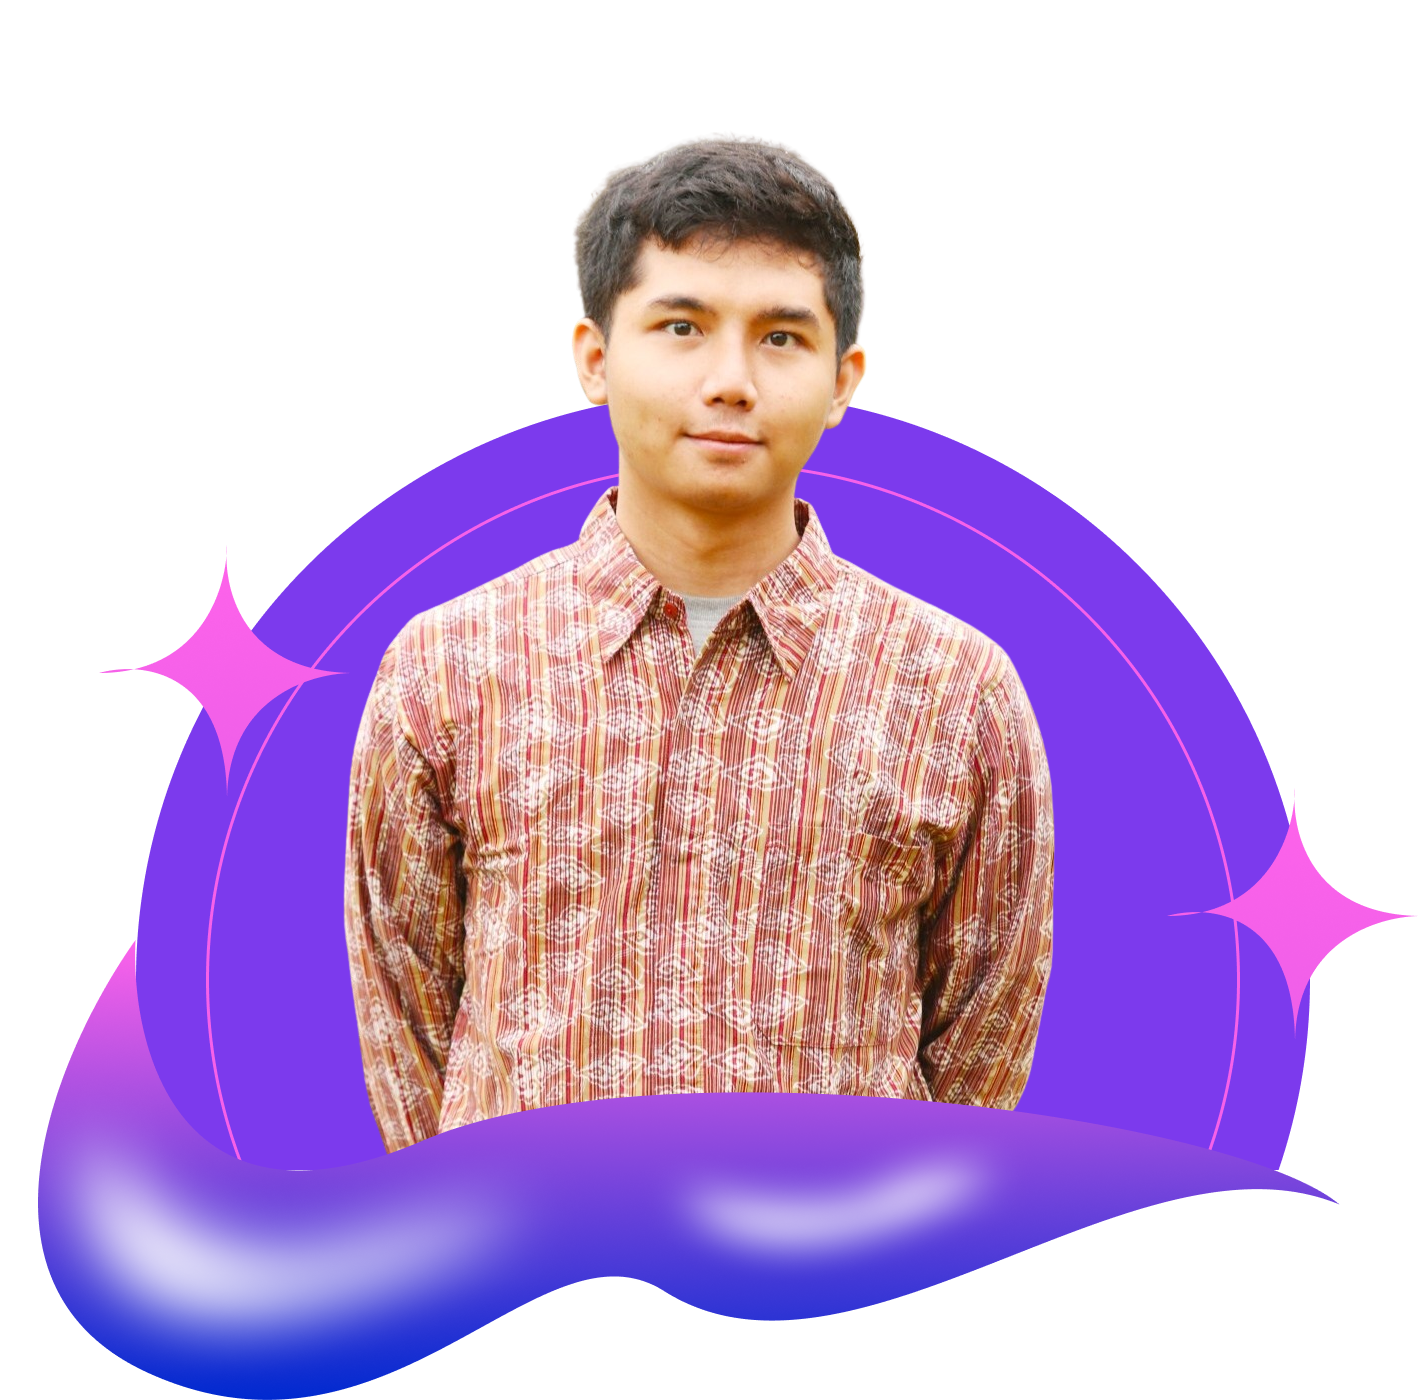
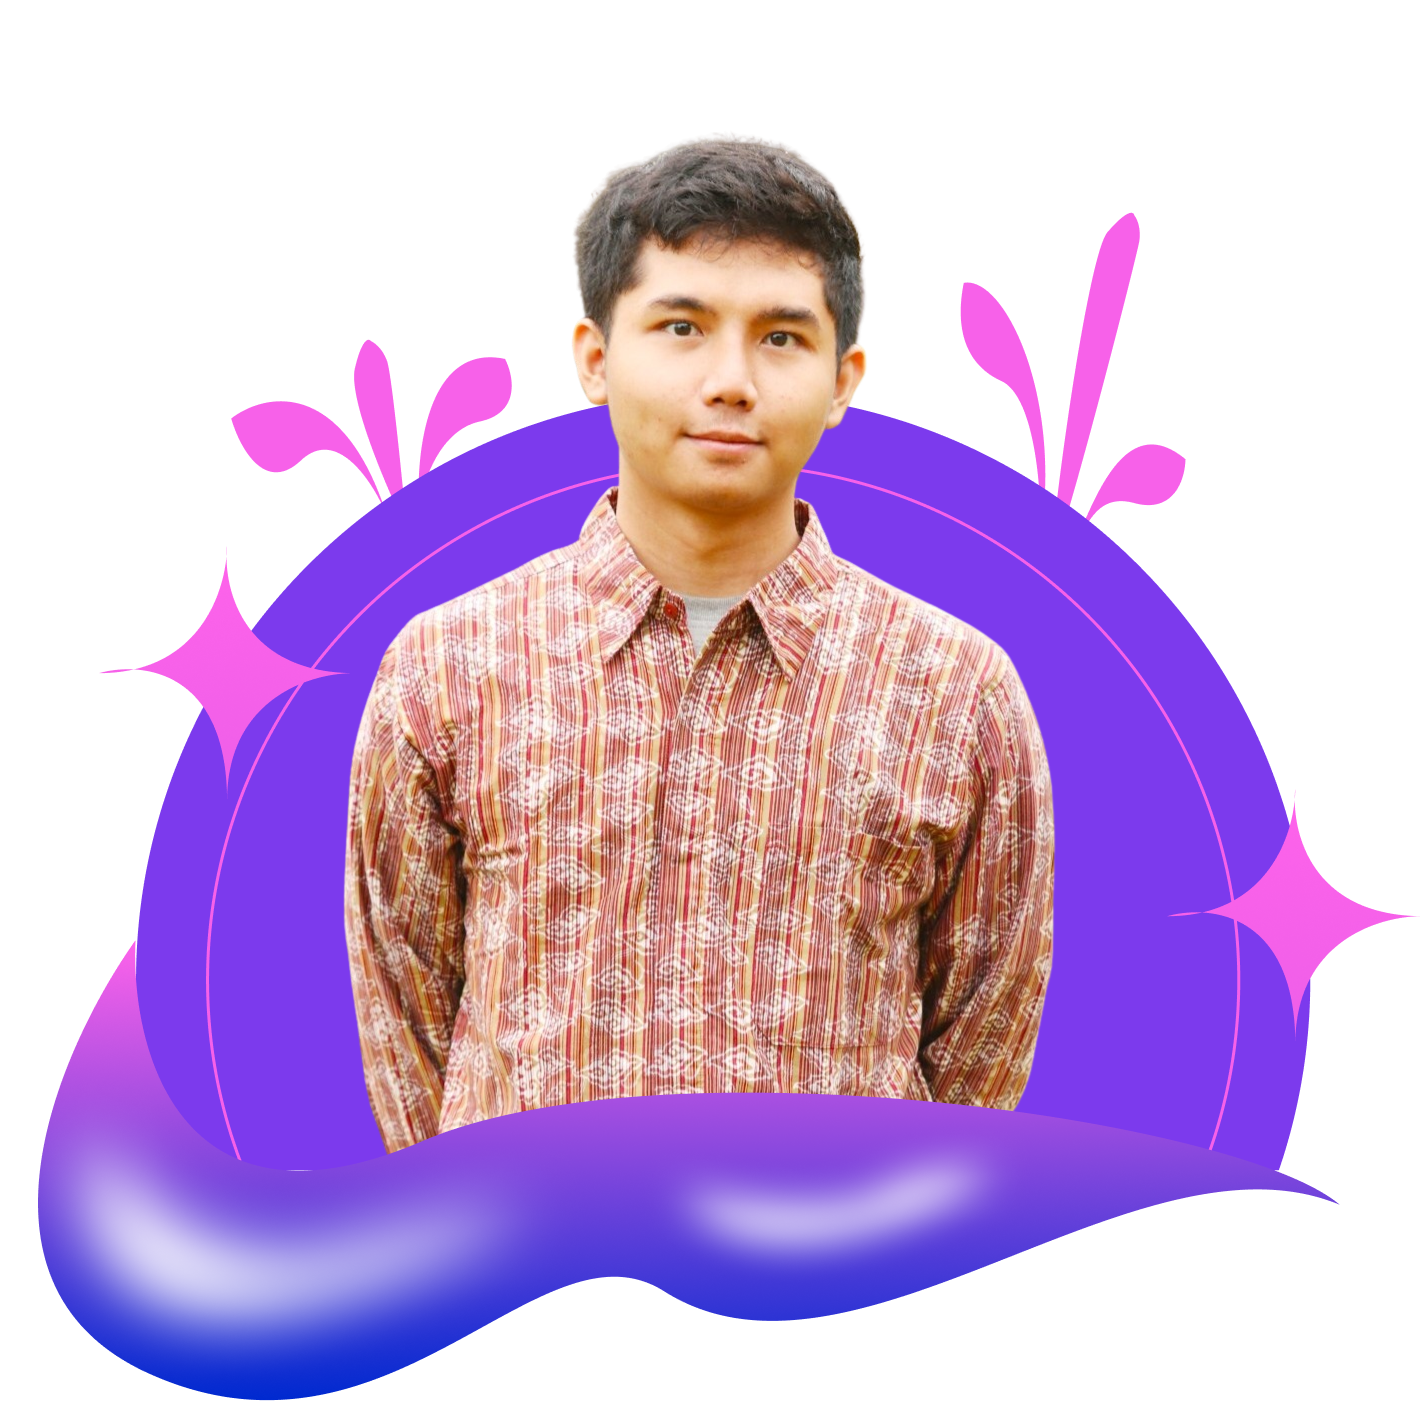
restructure introduction

Changed region(s): [[0.3401, 0.3993, 0.7421, 0.7986], [0.6493, 0.1536, 0.8349, 0.3686], [0.1546, 0.2457, 0.371, 0.3686]]

diff --git a/client/src/components/Header/Header.jsx b/client/src/components/Header/Header.jsx
@@ -7,7 +7,8 @@ const Header = () => {
   const [scrollY, setScrollY] = useState(0);
   const [prevScrollY, setPrevScrollY] = useState(0);
   const [opacity, setOpacity] = useState(1); // Start with full opacity
-  const [offset, setOffset] = useState('1')
+  const [offset, setOffset] = useState("1");
+  const [menuOpen, setMenuOpen] = useState(false);
 
   const Navbar = [
     {
@@ -43,15 +44,15 @@ const Header = () => {
   const controlNavbarOpacity = () => {
     if (typeof window !== "undefined") {
       const currentScrollY = window.scrollY;
-      
+
       if (currentScrollY > prevScrollY) {
         // Scrolling down
         setOpacity(0); // Fade out
-        setOffset(0)
+        setOffset(0);
       } else {
         // Scrolling up
         setOpacity(1); // Fade in
-        setOffset('1')
+        setOffset("1");
       }
 
       setPrevScrollY(currentScrollY);
@@ -66,38 +67,70 @@ const Header = () => {
         window.removeEventListener("scroll", controlNavbarOpacity);
       };
     }
-  // eslint-disable-next-line react-hooks/exhaustive-deps
+    // eslint-disable-next-line react-hooks/exhaustive-deps
   }, [prevScrollY]); // Run when `prevScrollY` changes
-  
+
+  const toggleMenu = () => {
+    setMenuOpen(!menuOpen); // Toggle the state
+  };
+
   return (
     <>
-      <nav className="active h-auto bg-zinc-800 mx-8 text-zinc-200 mt-5 rounded-full shadow-xl transition-all duration-500" style={{ opacity: opacity, scale: offset}}>
-        <ul className="mx-4 flex flex-row gap-2 h-[55px] justify-around">
-          {Navbar.map((item, index) => (
-            <li
-              key={index}
-              className="flex flex-col justify-center font-semibold w-full"
-            >
-              {item.name != "LogoNavbar" && (
-                <Link
-                  to={item.link}
-                  className="h-[40px] place-content-center p-3 flex items-center transition ease-in-out delay-150 rounded-full hover:scale-110 hover:bg-violet-600 duration-300"
-                >
+      <nav
+        className="active fixed w-full h-[auto] mt-5 z-50"
+      >
+        <div className="flex flex-col xl:flex-row justify-around mx-8 bg-zinc-800 text-zinc-200 rounded-full shadow-xl h-[55px] transition-all duration-500" style={{ opacity: opacity, scale: offset }}>
+          <div className="flex flex-row xl:block xl:hidden justify-between px-10 my-2">
+            <img
+                        src={LogoNavbar}
+                        alt="Logo Navbar"
+                        className="h-[40px]"
+                      />
+            <button onClick={toggleMenu}>
+              <svg
+                className="w-5 h-5"
+                aria-hidden="true"
+                xmlns="http://www.w3.org/2000/svg"
+                fill="none"
+                viewBox="0 0 17 14"
+              >
+                <path
+                  stroke="currentColor"
+                  strokeLinecap="round"
+                  strokeLinejoin="round"
+                  strokeWidth="2"
+                  d="M1 1h15M1 7h15M1 13h15"
+                />
+              </svg>
+            </button>
+          </div>
+          <ul className={`mx-4 py-4 flex flex-col h-auto ${menuOpen ? 'scale-100 visible rounded-lg bg-zinc-800/30' : 'scale-0 invisible'} xl:scale-100 xl:bg-transparent xl:visible xl:flex-row gap-1 xl:h-[55px] justify-around xl:w-full`}>
+            {Navbar.map((item, index) => (
+              <li
+                key={index}
+                className="flex flex-col justify-center font-semibold w-full items-center px-20 xl:px-0"
+              >
+                {item.name != "LogoNavbar" && (
+                  <Link
+                    to={item.link}
+                    className="h-[40px] place-content-center p-3 flex items-center transition ease-in-out delay-150 w-full rounded-full hover:scale-110 hover:bg-violet-600 duration-300"
+                  >
                     {item.name}
-                </Link>
-              )}
-              {item.name == "LogoNavbar" && (
-                <Link to={item.link} className="flex place-content-center">
-                  <img
-                    src={LogoNavbar}
-                    alt="Logo Navbar"
-                    className="h-[40px]"
-                  />
-                </Link>
-              )}
-            </li>
-          ))}
-        </ul>
+                  </Link>
+                )}
+                {item.name == "LogoNavbar" && (
+                  <Link to={item.link} className="flex hidden block xl:visible xl:inline w-[107px]">
+                    <img
+                      src={LogoNavbar}
+                      alt="Logo Navbar"
+                      className="h-[40px]"
+                    />
+                  </Link>
+                )}
+              </li>
+            ))}
+          </ul>
+        </div>
       </nav>
     </>
   );

diff --git a/client/src/components/Introduction/Introduction.jsx b/client/src/components/Introduction/Introduction.jsx
@@ -1,15 +1,55 @@
-import profileImage from "../../assets/ProfilePhoto.png"
+import profileImage from "../../assets/ProfilePhoto.png";
+import introComponent from "../../assets/IntroComponent.svg";
 const Introduction = () => {
-
   return (
     <>
-        <div className="flex flew-row place-content-center mx-20 text-6xl font-bold z-0">
+      <div className="absolute -top-[350px] -left-[300px]">
+        <img src={introComponent} alt="" className="-z-10" />
+      </div>
+      <div className="flex flex-row place-content-center mx-20 px-10">
+        <div className="flex flex-col w-full p-10 z-20">
+          <div className="flex flex-col ml-20 pt-5 text-7xl font-bold">
+            <p><span className="text-white drop-shadow-[0_2px_2px_rgba(249,58,237,1)]">Hi There!</span></p>
+            <p><span className="bg-gradient-to-r from-[#FF63EA] to-[#0029CF] inline-block text-transparent bg-clip-text">Welcome to my Portfolio Web</span></p></div>
+          <div className="flex flex-row ml-20 font-thin text-2xl mt-8 text-justify">
+            <p>I am Bryan, an electrical (control) engineering fresh graduate and a professional worker specializing in <span className="font-bold">Machine Learning</span></p></div>
+          <div className="mt-8 mb-2 flex flew-row place-content-center p-2 gap-5">
+            <a href="">
+              <div className="transition ease-in-out duration-300 bg-violet-700/50 backdrop-blur-md border border-white/20 rounded-lg p-8 text-violet-900 hover:text-white font-thin text-xl px-5 py-3">
+                Hire me!
+              </div>
+            </a>
+            <a href="">
+              <div className="transition ease-in-out duration-300 bg-violet-700/50 backdrop-blur-md border border-white/20 rounded-lg p-8 text-violet-900 hover:text-white font-thin text-xl px-5 py-3">
+                My Portofolio
+              </div>
+            </a>
+          </div>
+        </div>
+        <div className="flex flex-col w-full">
+          <div className="flex flew-row place-content-center">
+            <img src={profileImage} alt="" className="h-[500px] z-10" />
+          </div>
+        </div>
+      </div>
+      {/* <div className="flex flew-row place-content-center mx-20 text-6xl font-bold z-0">
           <h1 className="text-center tracking-normal">I'm <span className="h-[70px] bg-gradient-to-r from-[#FF63EA] to-[#0029CF] inline-block text-transparent bg-clip-text">Bryan</span>,<br />Data Scientist</h1>
         </div>
         <div className="flex flew-row place-content-center">
-          <img src={profileImage} alt="" className="h-[500px] z-10 absolute top-[180px]"/>
+          <img src={profileImage} alt="" className="h-[500px] z-10 absolute -mt-[70px]"/>
         </div>
-        
+        <div className="mt-[430px] mb-5 flex flew-row place-content-center p-1 gap-5">
+          <a href="">
+            <div className="transition ease-in-out duration-300 bg-white/30 backdrop-blur-md border border-white/20 rounded-lg p-8 text-violet-900 hover:text-white font-thin text-xl px-5 py-3">
+              Hire me!
+            </div>
+          </a>
+          <a href="">
+            <div className="transition ease-in-out duration-300 bg-white/30 backdrop-blur-md border border-white/20 rounded-lg p-8 text-violet-900 hover:text-white font-thin text-xl px-5 py-3">
+              My Portofolio
+            </div>
+          </a>
+        </div> */}
     </>
   );
 };

diff --git a/client/src/App.jsx b/client/src/App.jsx
@@ -2,16 +2,20 @@ import "./App.css";
 import Header from "./components/Header/Header";
 import { BrowserRouter as Router } from "react-router-dom";
 import Introduction from "./components/Introduction/Introduction";
+import bgImage from './assets/bg-introduction.png';
 
 function App() {
   return (
     <>
       <Router>
-        <div className="flex-col snap-x">
-          <div className="w-full fixed z-50">
-            <Header />
-          </div>
-          <div className="snap-center w-full min-h-screen bg-zinc-50 scroll-smooth pt-[120px]">
+        <div className="flex-col">
+          <Header />
+          <div
+            className="snap-center bg-local bg-center bg-cover w-full min-h-screen bg-zinc-50 scroll-smooth pt-[100px]"
+            style={{
+              backgroundImage: `url(${bgImage})`,
+            }}
+          >
             <Introduction />
           </div>
           <div className="snap-center w-full min-h-screen bg-zinc-800 scroll-smooth">
